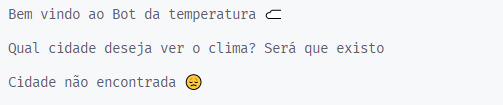
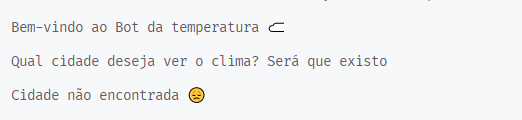
update images

diff --git a/index.js b/index.js
@@ -2,7 +2,7 @@ const puppeteer = require("puppeteer");
 
 var readlineSync = require("readline-sync");
 
-console.log("\nBem vindo ao Bot da temperatura ☁\n");
+console.log("\nBem-vindo ao Bot da temperatura ☁\n");
 
 async function robo() {
   const browser = await puppeteer.launch();
